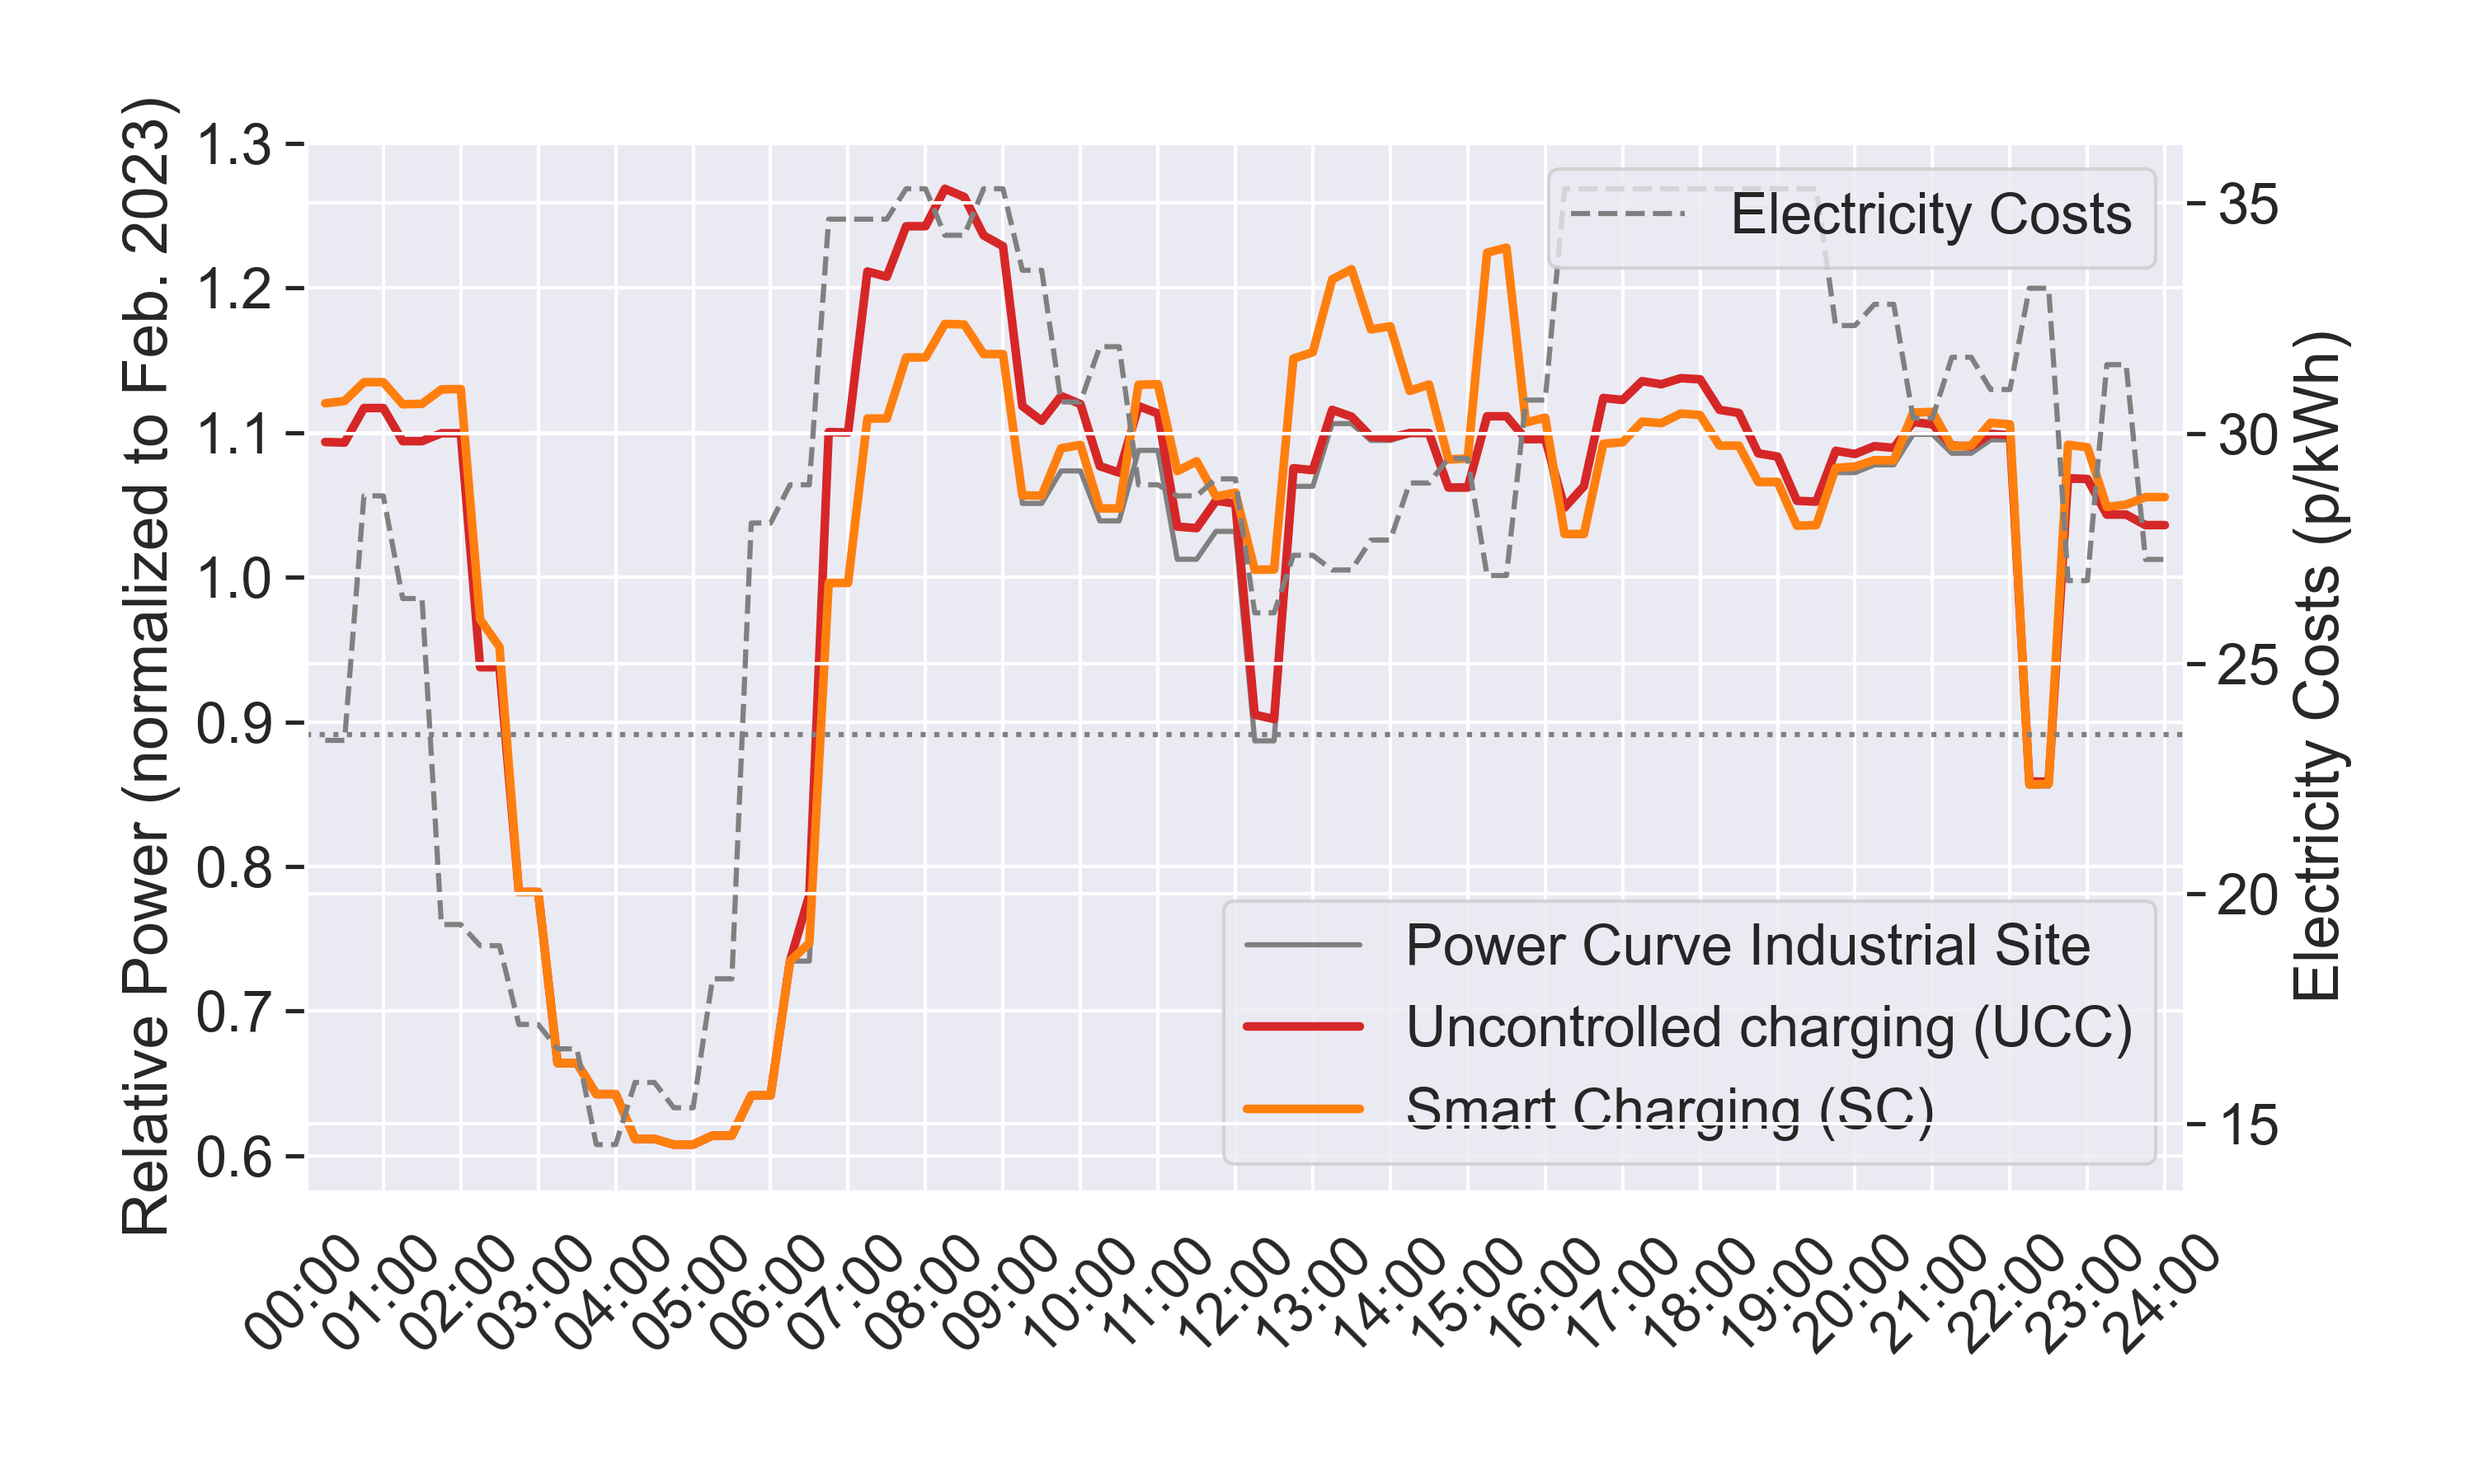
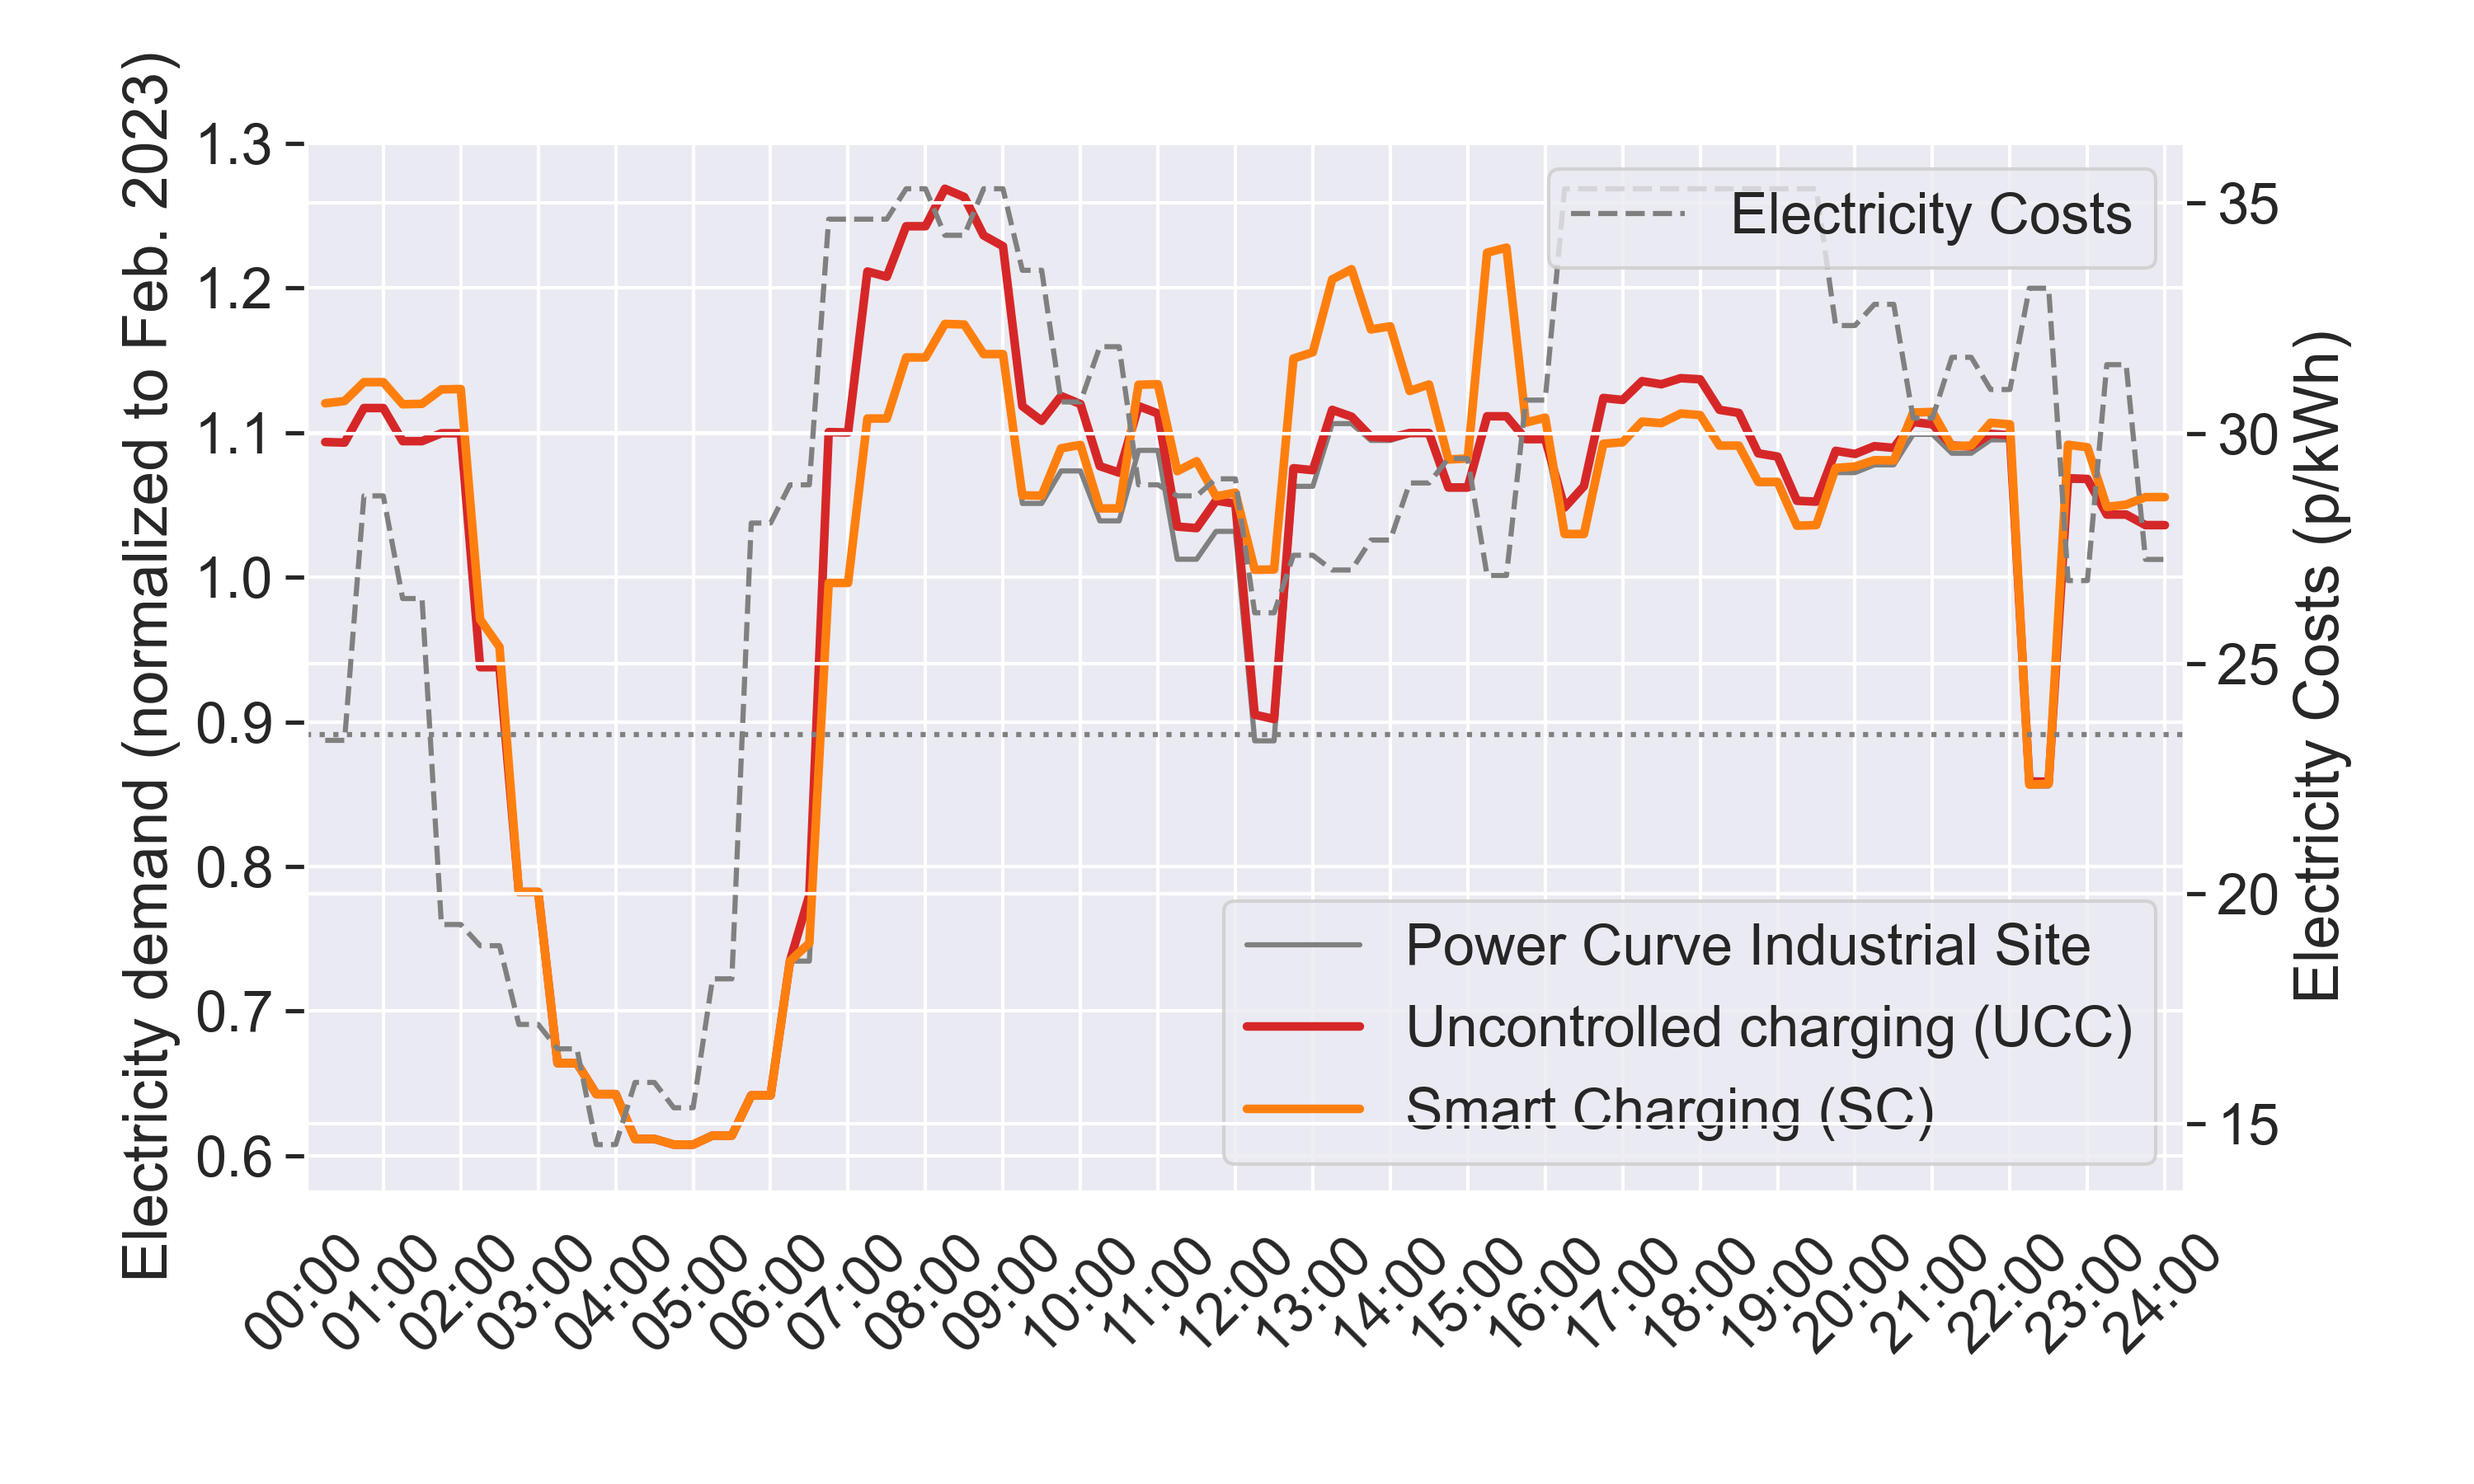
Fix y-axis label

Changed region(s): [[0.031, 0.0311, 0.093, 0.7778], [0.031, 0.8089, 0.062, 0.8711]]

diff --git a/ev_workplace_charging/utils/plotting.py b/ev_workplace_charging/utils/plotting.py
@@ -1,6 +1,7 @@
 import seaborn as sns
 import streamlit as st
 from matplotlib import pyplot as plt
+from PIL import Image
 
 from ev_workplace_charging.settings import COLUMN_NAMES
 from ev_workplace_charging.settings import METRICS
@@ -10,7 +11,7 @@ from ev_workplace_charging.settings import MODEL_TYPES
 def save_and_write_fig(fig, figure_path):
     plt.tight_layout(pad=2.0)
     fig.savefig(figure_path, dpi=300)
-    st.write(fig)
+    st.image(Image.open(figure_path))
 
 
 def create_output_fig(
@@ -103,7 +104,7 @@ def create_output_fig(
     ax.set_xlabel("")
     ax.set_xlim(0, 97)
     ax.tick_params(axis="y")
-    ax.set_ylabel("Relative Power (normalized to Feb. 2023)")
+    ax.set_ylabel("Electricity demand (normalized to Feb. 2023)")
     # ax.set_ylim(1000, 5000)
 
     return fig

diff --git a/ev_workplace_charging/visualize_input_data.py b/ev_workplace_charging/visualize_input_data.py
@@ -29,7 +29,7 @@ def main():
     df_power_profile = process_df_to_long_form(df_power_profile)
 
     fig, ax = plot_long_form_df(df_power_profile)
-    ax.set_ylabel("Relative Power (normalized to Feb. 2023)")
+    ax.set_ylabel("Electricity demand (normalized to Feb. 2023)")
 
     save_and_write_fig(fig, FIGURES_DIR / "power_profile.png")
 
